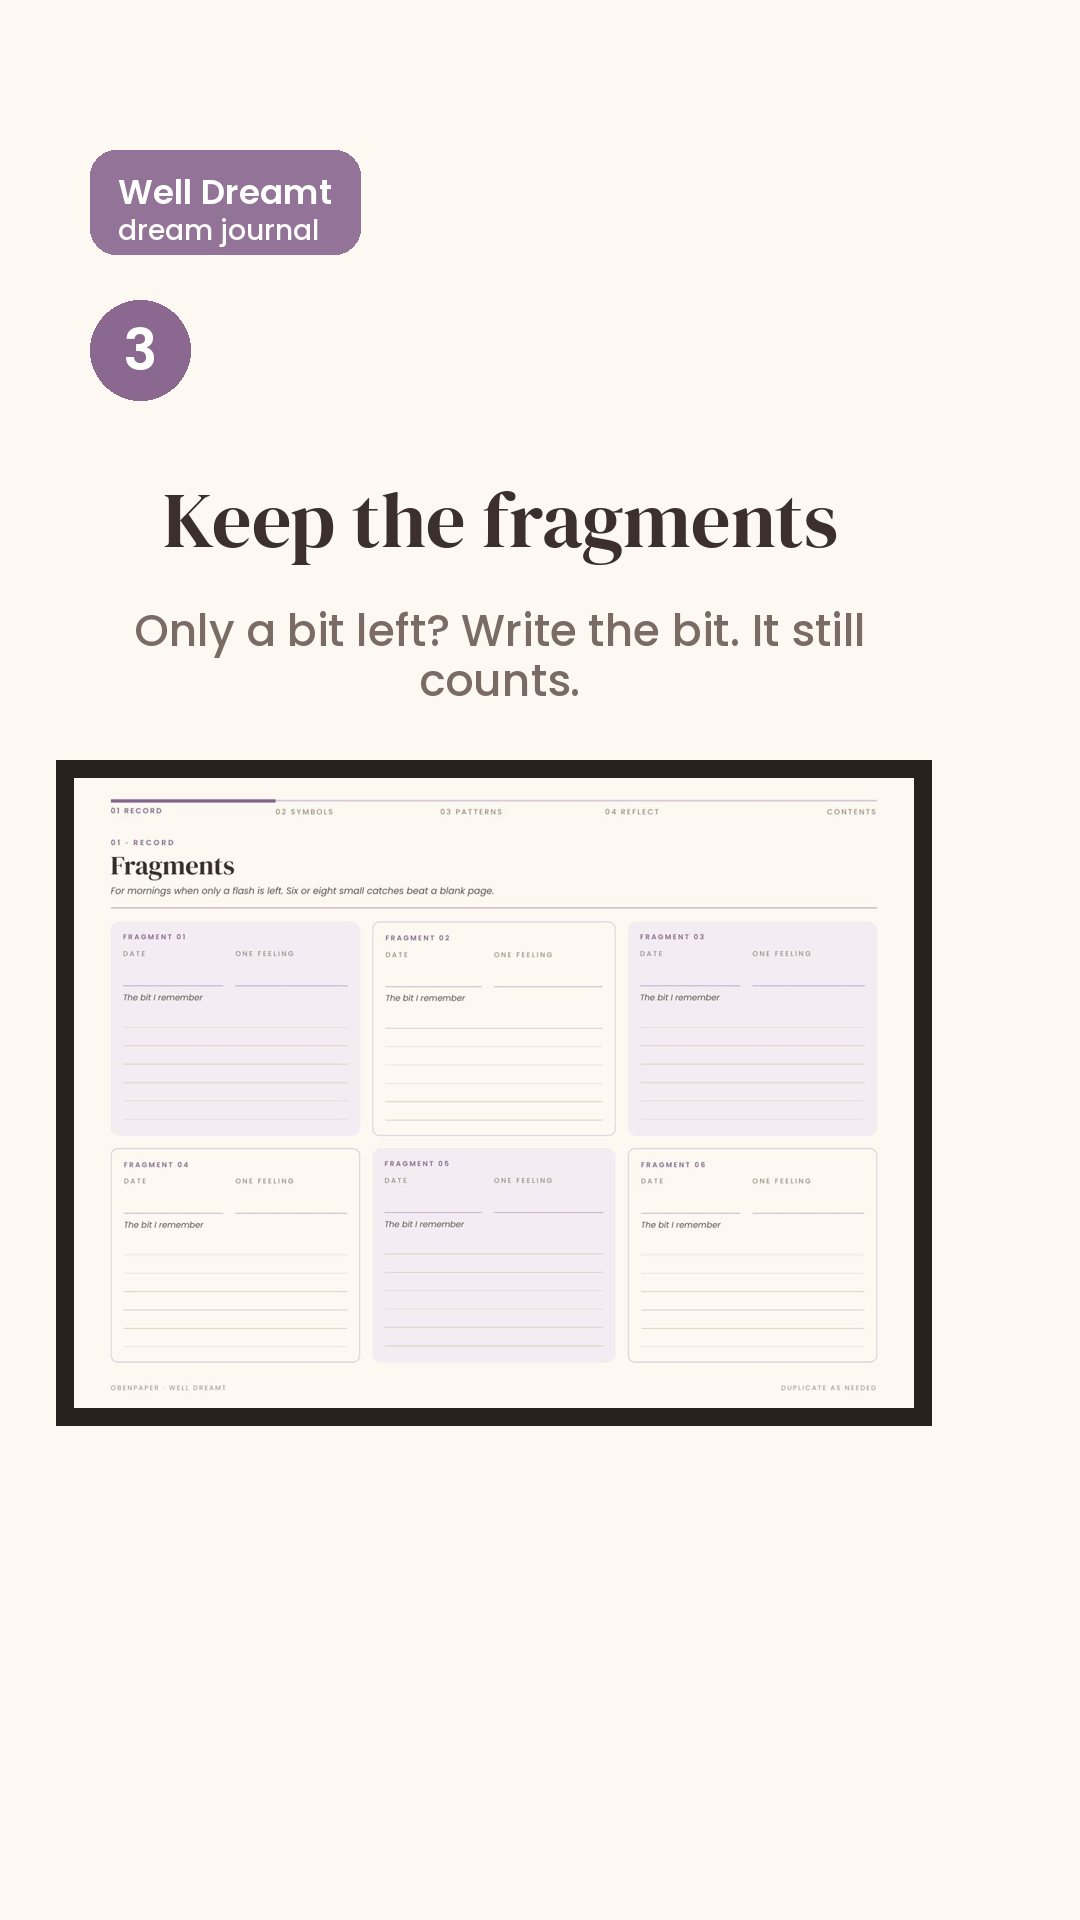
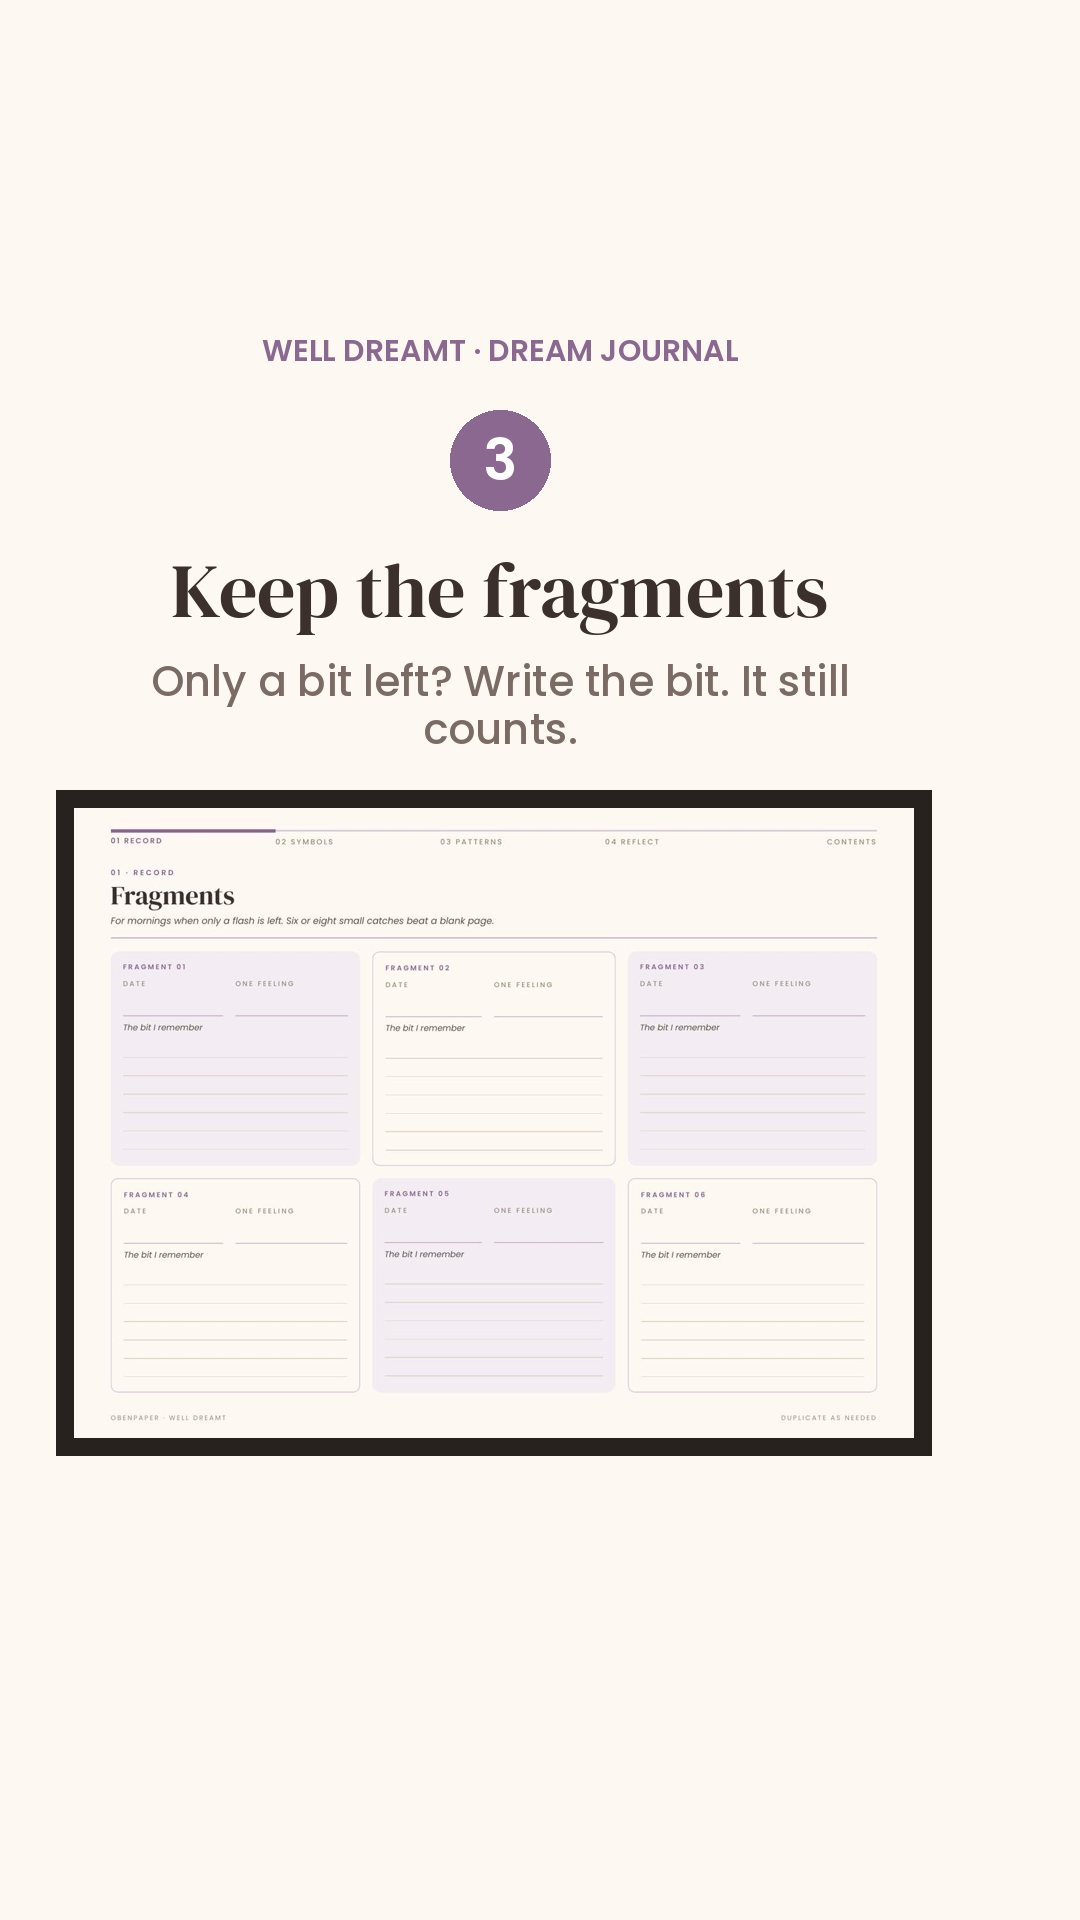
Carousel: product kicker in the safe zone (no top badge), end card on two lines — fixes the cut-off seen on @obenpaper
Claude-Session: https://claude.ai/code/session_01Ux9cpv4bnN4BGkgwm1MEeq

diff --git a/pin-studio/tiktok_carousel.py b/pin-studio/tiktok_carousel.py
@@ -32,10 +32,10 @@ def page(img, path, y, width=840):
 
 def step(img, n, title, sub, acc):
     d = ImageDraw.Draw(img)
-    d.ellipse((90, 300, 190, 400), fill=acc + (255,))
-    d.text((140, 350), str(n), font=font("bold", 56), fill=(255, 255, 255, 255), anchor="mm")
-    text_block(img, title, "serif", 78, INK, 520)
-    text_block(img, sub, "sans", 44, MUTED, 655, maxw=820)
+    d.ellipse((450, 410, 550, 510), fill=acc + (255,))
+    d.text((500, 460), str(n), font=font("bold", 56), fill=(255, 255, 255, 255), anchor="mm")
+    text_block(img, title, "serif", 76, INK, 590)
+    text_block(img, sub, "sans", 42, MUTED, 705, maxw=780)
 
 
 CAROUSELS = {
@@ -75,8 +75,8 @@ def render(key, outdir):
     for i, s in enumerate(c["slides"], 1):
         img = Image.new("RGBA", (W, H), CREAM + (255,))
         if s[0] == "hook":
-            text_block(img, s[1], "italic", 104, INK, 560)
-            text_block(img, s[2], "hand", 76, acc, 860)
+            text_block(img, s[1], "italic", 104, INK, 620)
+            text_block(img, s[2], "hand", 76, acc, 900)
             if c.get("hook_art") == "moon":
                 d = ImageDraw.Draw(img)
                 d.ellipse((400, 1000, 680, 1280), fill=acc + (255,))
@@ -88,15 +88,17 @@ def render(key, outdir):
             text_block(img, "swipe for the system", "bold", 48, MUTED, 1500)
         elif s[0] == "step":
             step(img, s[1], s[2], s[3], acc)
-            page(img, os.path.join(prev, s[4]), 760)
+            page(img, os.path.join(prev, s[4]), 790)
         else:
-            text_block(img, "the whole system lives in one journal", "italic", 76, INK, 520)
-            page(img, os.path.join(prev, "01.jpg"), 660, width=760)
-            text_block(img, f"{c['product']} · by Obenpaper", "bold", 58, INK, 1330, maxw=900)
-            text_block(img, c["end"][0], "sans", 40, MUTED, 1400)
-            text_block(img, c["end"][1], "sans", 40, MUTED, 1450)
-            text_block(img, "search ObenPaper on Etsy", "bold", 50, acc, 1525)
-        badge(img, c["product"], c["tag"], acc)
+            text_block(img, "the whole system lives in one journal", "italic", 72, INK, 520)
+            page(img, os.path.join(prev, "01.jpg"), 640, width=620)
+            text_block(img, c["product"], "serif", 76, acc, 1250)
+            text_block(img, "by Obenpaper", "sans", 40, MUTED, 1320)
+            text_block(img, c["end"][0] + " · " + c["end"][1], "sans", 36, MUTED, 1390)
+            text_block(img, "search ObenPaper on Etsy", "bold", 48, acc, 1475)
+        # Product kicker inside the safe zone (y >= 320): TikTok's top bar covers a
+        # top-left badge on photo posts (Luc's screenshot, 15 Nov 2026).
+        text_block(img, f"{c['product']} · {c['tag']}".upper(), "bold", 30, acc, 350)
         p = os.path.join(outdir, f"{key}-{i:02d}.jpg")
         img.convert("RGB").save(p, quality=84)
         paths.append(p)
